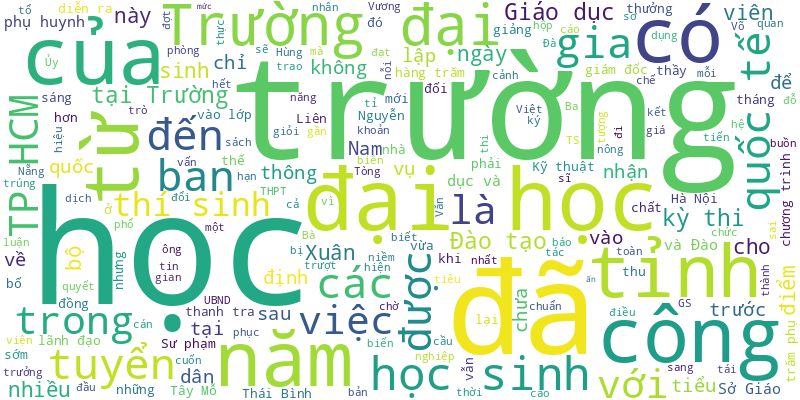
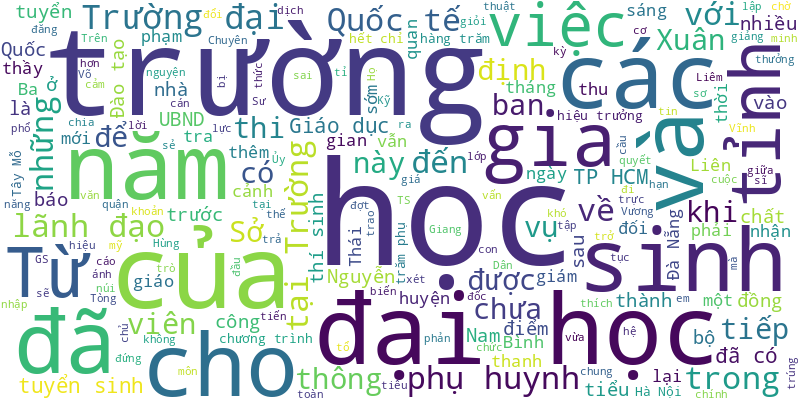
🍀 = 100%

diff --git a/README.md b/README.md
@@ -1,6 +1,14 @@
 # Tuoi Tre RSS 
 
 ## Giáo dục 
+- Trên mạng xã hội tiếp tục xôn xao khi một phụ huynh tại Thái Bình đăng điểm thi lớp 10 của con sau thanh tra tiếp tục 'nhảy múa', cách nhau 5 điểm môn toán.
+- Trong năm học mới này, những ngôi trường "đẹp như mơ" trở thành điểm nhấn cảnh quan của thành phố Đà Nẵng, đồng thời kích thích thẩm mỹ, khiếu sáng tạo và cảm hứng học tập cho học sinh.
+- Lãnh đạo UBND huyện Vĩnh Thuận, tỉnh Kiên Giang khẳng định hiệu trưởng đã tự ý chuyển cơ sở vật chất trường cũ sang trường mới khi chưa có văn bản chính thức của huyện là có.
+- Sau lùm xùm 'trường chưa thông báo tuyển sinh đã hết chỉ tiêu', lãnh đạo UBND quận Nam Từ Liêm trực tiếp đối thoại với phụ huynh.
+- Trong cuộc thi ROBOTACON WRO 2024 với chủ đề “Đồng minh Trái đất”, bên cạnh các nhiệm vụ chính thức, còn có thêm những thử thách bất ngờ, giúp các em hiểu hơn về phát triển bền vững.
+- Chuyên gia cảnh báo việc thí sinh đang 'đứng núi này trông núi nọ', tính đến việc bỏ nhập học sau khi trúng tuyển để xét tuyển lại sẽ gặp nhiều rủi ro.
+- Hơn năm năm qua, ba nhà giáo ở Quảng Ngãi may áo dài cho sinh nghèo. Họ chung tấm lòng thiện nguyện thảo thơm, sẻ chia khó nhọc, tiếp thêm động lực cho những phận đời vươn lên giữa gian khó.
+- Lãnh đạo Sở Giáo dục và Đào tạo Đà Nẵng cho biết đã có kết luận trả lời phản ánh của các giáo viên Trường THPT Thái Phiên về dấu hiệu sai phạm của Hiệu trưởng Nguyễn Bá Hảo.
 - TP.HCM đã ấn định mức trần các khoản thu dịch vụ trong trường công lập tại TP.HCM năm học 2024-2025.
 - Nhiều phụ huynh, thí sinh phản ánh Trường đại học Quốc tế (Đại học Quốc gia TP.HCM) buộc thí sinh phải nộp hồ sơ nhập học trực tiếp và hoàn thành các khoản thu trước 16h ngày 24-8.
 - Liên quan đến vụ việc tuyển sinh sai đối tượng tại Trường phổ thông Dân tộc nội trú THCS Mường Lát, Ủy ban Kiểm tra Tỉnh ủy Thanh Hóa vừa công bố quyết định kỷ luật một loạt cán bộ, lãnh đạo huyện này.
@@ -23,46 +31,38 @@
 - UBND tỉnh Thái Bình quyết định gia hạn tạm đình chỉ công tác thêm 15 ngày đối với ông Nguyễn Viết Hiển, giám đốc Sở Giáo dục và Đào tạo tỉnh, để phục vụ công tác thanh tra việc tổ chức kỳ thi vào lớp 10.
 - Nói về việc thí sinh đạt 9 điểm mỗi môn vẫn rớt nguyện vọng 1 vào trường, ông Nguyễn Đức Sơn - hiệu trưởng Trường đại học Sư phạm Hà Nội - cho rằng đó là điều bình thường.
 - GS.TS Võ Tòng Xuân, "cây đại thụ" của nền nông nghiệp Việt Nam, chuyên gia uyên bác trong mắt bạn bè quốc tế, thầy Xuân của nhiều thế hệ học trò, anh Ba Xuân của bà con nông dân miền Tây, vĩnh viễn trở về nằm lại ở quê nhà Ba Chúc, Tri Tôn, An Giang.
-- Kỳ thi vào lớp 10 THPT công lập tỉnh Thái Bình diễn ra từ ngày 6 đến 8-6, thế nhưng sau hơn 70 ngày trong tâm trạng hồi hộp, lo lắng, có cả buồn tủi, đến sáng 20-8 nhiều thí sinh mới chính thức biết điểm thi thật của mình.
-- Nhiều giảng viên Trường ĐH Sư phạm kỹ thuật Đà Nẵng 'té ngửa' vì sau hơn 5 năm sử dụng mới biết cuốn sách chưa hề được xuất bản.
-- Niềm vui của học sinh này lại là nỗi buồn của học sinh khác, đó là thực tế đang diễn ra tại Thái Bình khi sau kết luận thanh tra kỳ thi vào lớp 10 tại tỉnh này, có hơn 500 thí sinh từ trượt sang đỗ, từ đỗ sang trượt.
-- Văn phòng Sở Giáo dục và Đào tạo TP.HCM vừa công bố kết luận của phó giám đốc Sở Giáo dục và Đào tạo tại buổi làm việc với Trường quốc tế AISVN.
-- Chiều 20-8, Cục Đào tạo, Bộ Công an công bố điểm chuẩn trúng tuyển vào các học viện, trường đại học Công an nhân dân năm 2024.
-- Mỗi học sinh Nghệ An đạt điểm cao trong kỳ thi tốt nghiệp THPT năm 2024 sẽ được nhận thưởng gần 19 triệu đồng.
-- Điểm chuẩn Học viện Cảnh sát nhân dân với thí sinh nam dao động 20,67 - 21,52, cao nhất là đối tượng vùng 1 mã bài CA2.
-- Qua thanh tra cho thấy ban thư ký đã phát hiện sai sót nhưng không lập biên bản, trưởng ban chỉ đạo kỳ thi cũng không có biện pháp khắc phục.
 ![Edu](Edu.png)
 ## Thời Sự 
-- Bộ Công an đang đẩy mạnh ứng dụng tài khoản định danh điện tử của công dân để hạn chế tình trạng nặc danh, lừa đảo trên mạng.
-- Trong "tâm thư" gửi đến Thủ tướng, Mercedes-Benz Group AG lo lắng về thời hạn 31-8 chưa được gia hạn dự án thì doanh nghiệp sẽ phải đóng vĩnh viễn nhà máy  tại Gò Vấp.
-- Sở Giao thông vận tải TP.HCM vừa chỉ đạo các đơn vị trực thuộc rà soát các điểm xe dù bến cóc ở quận 10 để đề xuất gắn camera giám sát.
-- Một số tin tức đáng chú ý: Nhiều người sẽ được hưởng trợ cấp bảo hiểm xã hội từ 2025; Rao bán món nợ trăm tỉ của ông chủ chuỗi nhà hàng nổi tiếng ở TP.HCM; TP.HCM xây dựng đề án ứng phó với sự cố hóa chất...
-- Hôm nay 23-8, thời tiết Bắc Bộ duy trì mưa to, còn Nam Bộ mưa có xu hướng gia tăng vào chiều tối, Trung Bộ vẫn nắng nóng.
-- Đi bệnh viện, ngoài chi phí "cứng" tiền khám và xét nghiệm, hầu hết người bệnh còn phải trả một khoản tiền lớn cho việc mua thuốc, sản phẩm hỗ trợ, thực phẩm chức năng. Nhiều toa thuốc bất hợp lý, quá nhiều món "hỗ trợ".
-- Mưa lớn trên địa bàn tỉnh Thái Nguyên khiến nước dâng cao, chảy xiết cuốn trôi ô tô, tạt đổ nhiều xe máy trên đường phố ở TP Thái Nguyên.
-- Cơ quan công an đã vào cuộc vụ một bệnh nhân tử vong sau khi phẫu thuật thay van tim tại Bệnh viện Đại học Y dược Buôn Ma Thuột.
-- Ngày mai (23-8), đoàn công tác của Bộ Tài nguyên và Môi trường sẽ làm việc tại UBND huyện Thanh Oai và Hoài Đức để nghe báo cáo toàn bộ các cuộc đấu giá đất vừa diễn ra.
-- Lực lượng chức năng đã phát hiện tàu vỏ thép chở hàng mang số hiệu Việt Thuận 21506 tại một bến cảng trên địa bàn tỉnh Bình Thuận. Đây là tàu hàng va chạm với tàu cá Phú Yên khiến ngư dân livestream kêu cứu trưa nay.
-- Thủ tướng Chính phủ Phạm Minh Chính đã ký các quyết định bổ nhiệm một số cán bộ thuộc Bộ Quốc phòng, trong đó bổ nhiệm chính ủy Học viện Chính trị làm phó chủ nhiệm Tổng cục Chính trị.
-- Từ kinh nghiệm xử lý các dự án thua lỗ vừa qua, bài học rút ra là cần tái cấu trúc quản trị, nguồn vốn vay, tài chính và đầu vào nguyên liệu, gắn với cơ chế thực hiện.
-- Tam giác phát triển Campuchia - Lào - Việt Nam thu hút sự chú ý gần đây tại Campuchia. Ngày 22-8, Bộ Ngoại giao Việt Nam chính thức nói về ý nghĩa của khuôn khổ hợp tác này.
-- Tỉnh ủy Lâm Đồng đã điều chỉnh chủ trương với hai dự án cao tốc nối liền TP.HCM tới Đà Lạt. Vốn ngân sách sẽ được sử dụng nhiều hơn để đẩy nhanh tiến độ dự án.
-- Nhóm này vừa bị Công an huyện Như Xuân (tỉnh Thanh Hóa) bắt tạm giam để điều tra.
-- Vào đúng giờ tan tầm, người đi trên quốc lộ 13 tỉnh Bình Dương thấy trời mưa khói vẫn “ngút trời” do cháy bãi phế liệu xen giữa khu dân cư. Đám cháy sau đó được khống chế.
-- Sở Giao thông vận tải TP.HCM vừa thông báo cấm toàn bộ xe cộ đi trên đường Nguyễn Huệ (quận 1) vào ngày 23-8.
-- Bộ Ngoại giao Việt Nam bác bỏ thông tin sai sự thật rằng công dân Anh có thể bị cấm xuất cảnh, thu hộ chiếu trong một số trường hợp khi đến đây.
-- Bộ Giao thông vận tải ủng hộ phương án mở rộng cao tốc TP.HCM - Long Thành - Dầu Giây đoạn từ vành đai 2 đến cao tốc Biên Hòa - Vũng Tàu lên 8 đến 10 làn xe.
-- Ủy ban Kiểm tra Tỉnh ủy Kiên Giang vừa đề nghị Ban Thường vụ Tỉnh ủy Kiên Giang thi hành kỷ luật khai trừ Đảng ông Trần Văn Việt.
-- Bộ Ngoại giao Việt Nam lấy làm tiếc về phán quyết trong vụ việc của bà Trần Tố Nga, nhấn mạnh ủng hộ các nạn nhân yêu cầu các công ty sản xuất chất da cam chịu trách nhiệm.
-- Hàng loạt sản phẩm công nghệ từ xe điện, hệ thống sạc pin, mũ bảo hiểm tích hợp tai nghe bluetooth, AI ứng dụng trong tài chính, logistics... trưng bày tại InnoEx 2024 thu hút giới khởi nghiệp.
-- Nội dung về thí điểm chuyển đổi xe máy điện ở Cần Giờ được nêu tại hội thảo chính sách và giải pháp về giao thông vận tải cho phát triển kinh tế xanh tại TP.HCM, chiều 22-8.
-- Dự án cải tạo tỉnh lộ 7 ở tỉnh Đắk Lắk chi 70 tỉ đồng nhưng bị sạt trượt nghiêm trọng, do chủ đầu tư mắc lỗi từ việc khảo sát, xây dựng. Giờ đây Nhà nước phải chi thêm 11 tỉ đồng để sửa chữa.
-- Đại diện công đoàn đề xuất giá nhà cho công nhân có thể tiếp cận không quá 600 triệu đồng/căn.
-- Ngày 22-8 (tính đến 15h10) tại khu vực huyện Kon Plông (tỉnh Kon Tum) xảy ra 9 trận động đất, trong đó có trận động đất mạnh 4,4 độ Richter.
-- 100% thành viên Ủy ban Thường vụ Quốc hội có mặt đã biểu quyết đồng ý bổ sung dự Luật Bảo hiểm y tế sửa đổi vào chương trình xây dựng luật, pháp lệnh năm 2024.
-- Sáng 22-8 giờ Paris (chiều cùng ngày theo giờ Việt Nam), Tòa phúc thẩm Paris đã ra phán quyết về vụ kiện của bà Trần Tố Nga.
-- Theo chỉ đạo của Tá (không rõ lai lịch), Vũ Văn Nam thuê 2 căn chung cư cất giấu hơn 21kg ma túy để phân chia, bán cho khách.
-- Chiều 22-8, đoàn xe đưa linh cữu giáo sư Võ Tòng Xuân đã về đến quê nhà tại khóm An Hòa A, thị trấn Ba Chúc, huyện Tri Tôn, tỉnh An Giang. Cùng di chuyển theo đoàn xe là các cơ quan, ban ngành ở khu vực ĐBSCL đưa tiễn giáo sư.
+- Báo cáo phát triển bền vững - ESG - hiện được ví như vé thông hành vào thị trường châu Âu. Vậy làm thế nào để sở hữu được ESG?
+- Gió mùa tây nam mạnh lên khiến thời tiết Nam Bộ mưa tăng, Bắc Bộ vẫn trong đợt mưa diện rộng, Trung Bộ ngày nắng nóng.
+- Một số tin tức đáng chú ý: Tỉ giá tự do 'rơi' sâu; Mỗi năm bù lỗ 11 tỉ cho bến phà tạm Rạch Miễu; 3 triệu trẻ 5-15 tuổi ở Việt Nam mắc tật khúc xạ...
+- Tối 23-8, thông tin từ đội tìm kiếm cứu hộ cứu nạn tại khu vực sụp lở cống đang thi công đoạn bờ kè gầm cầu Trần Hoàng Na (quận Ninh Kiều, TP Cần Thơ), đã tìm thấy thi thể công nhân bị vùi lấp dưới hố.
+- Tối 23-8, vùng mây đối lưu phát triển, gây mưa to ở các quận huyện phía tây Hà Nội và đang mở rộng vào trung tâm.
+- Nhấn mạnh hai chữ 'đồng bào', Tổng Bí thư, Chủ tịch nước Tô Lâm nói như trên, thể hiện mong muốn bà con dù ở đâu hay làm gì, vẫn luôn hướng về quê hương và đất nước bằng trái tim ấm nồng tình yêu.
+- Chiều 23-8, Ủy viên Bộ Chính trị, Thủ tướng Chính phủ Phạm Minh Chính, trưởng Tiểu ban Kinh tế - xã hội Đại hội toàn quốc lần thứ XIV của Đảng, chủ trì phiên họp thứ ba của tiểu ban.
+- Lời giới thiệu hóm hỉnh của cụ Nguyễn Tầm Thường - cựu chiến binh Đại đoàn Quân tiên phong tham gia giải phóng thủ đô vào 70 năm trước - khiến nhiều người không khỏi xúc động.
+- Một sự cố sụp lở trong lúc thi công cống trên tuyến đường bờ kè cầu Trần Hoàng Na (quận Ninh Kiều, TP Cần Thơ) khiến hai công nhân bị rơi xuống hố.
+- Phó thủ tướng Trần Hồng Hà ký quyết định số 876 ngày 21-8 của Thủ tướng Chính phủ thi hành kỷ luật đối với ông Nguyễn Hoàng Hải, phó giám đốc Đại học Quốc gia Hà Nội.
+- Từ cuối tháng 7 đến nay, hơn 3km bờ biển ở huyện Hoằng Hóa, tỉnh Thanh Hóa đã và đang bị nước biển xâm thực, sạt lở nghiêm trọng, ảnh hưởng lớn đến cuộc sống, sản xuất của người dân.
+- Tổ công tác tham mưu cho UBND TP.HCM về phương án chấm dứt thỏa thuận đầu tư dự án nhà thi đấu Phan Đình Phùng và hoàn trả hơn 171 tỉ đồng theo tính toán của nhà đầu tư.
+- Phó thủ tướng Trần Lưu Quang ký quyết định số 890 của Thủ tướng, thi hành kỷ luật đối với ông Trần Văn Cần, nguyên chủ tịch UBND tỉnh Long An.
+- Mới đây, cơ quan chức năng tỉnh Tây Ninh đã phá án, bắt giữ hai đối tượng buôn bán người xuyên quốc gia từ Việt Nam sang Campuchia và giải cứu thành công một nạn nhân 16 tuổi.
+- GS Nguyễn Văn Minh mong muốn Tuổi Trẻ sẽ tiếp tục phát triển và là nơi phát hiện cái mới, cái đúng, đồng thời phải kiên định bảo vệ cái mới, cái đúng.
+- Việc tạm ngừng thu hồi giấy chứng nhận đăng kiểm viên bị kết tội bằng bản án được xem là giải pháp nhằm ngăn ngừa ùn tắc tại các trung tâm đăng kiểm trong thời gian tới.
+- Ngày 23-8, Phó thủ tướng Trần Hồng Hà chủ trì phiên họp thứ 3 của Ban Chỉ đạo nhà nước các chương trình, công trình, dự án quan trọng quốc gia, trọng điểm ngành năng lượng.
+- Tỉnh Đồng Nai cho rằng cần tăng cường thực thi pháp luật trong phòng chống tội phạm mua bán, săn bắt động vật hoang dã trái phép.
+- 'Khi TP.HCM đưa vào vận hành trung tâm hành chính công cấp tỉnh vào năm 2025, các sở trực thuộc sẽ không còn bộ phận tiếp nhận hồ sơ hành chính như hiện nay'.
+- Kỳ họp bất thường lần thứ 8 của Quốc hội sẽ diễn ra trong một ngày (26-8), để xem xét công tác nhân sự thuộc thẩm quyền.
+- Tìm kiếm, tôn vinh các sản phẩm mới xuất sắc về AI, Bigdata, IoT, bán dẫn sẽ là một điểm mới của Giải thưởng "Sản phẩm công nghệ số Make in Viet Nam" 2024.
+- Sở Kế hoạch và Đầu tư TP.HCM vừa có báo cáo UBND TP kết quả giải ngân vốn đầu tư công 7 tháng đầu năm và giải pháp trọng tâm thực hiện mục tiêu giải ngân quý 3-2024.
+- Chương trình 'Hành động vì một Việt Nam xanh' đã triển khai trồng 120.000 cây xanh tại Cà Mau để chống sạt lở đất, bảo vệ môi trường.
+- Dù 3 lần bị xử phạt hành chính do xây dựng sai phép và bị buộc phải tháo dỡ, 'biệt phủ' rộng cả ngàn mét vuông ở Bình Phước vẫn tồn tại sau gần 1 năm.
+- Tổ hợp hình thế vùng xoáy thấp phát triển từ mặt đất lên cao kết hợp với gió Đông Nam gây mưa lớn ở Hà Nội, Thái Nguyên và các tỉnh miền Bắc.
+- Trong chuỗi hoạt động thuộc chương trình “Những ngày Hà Nội tại TP.HCM”, đoàn đại biểu TP.HCM, TP Hà Nội đã dâng hương, dâng hoa tưởng niệm Chủ tịch Hồ Chí Minh và Chủ tịch Tôn Đức Thắng.
+- 8 tháng đầu năm, tội phạm ma túy tại Quảng Ngãi tăng hơn 33% so với cùng kỳ năm 2023. Trong 13 huyện, thị xã, thành phố, chỉ duy nhất huyện Minh Long không phát hiện tội phạm ma túy.
+- Ngày 23-8, Công an thành phố Bảo Lộc (Lâm Đồng) cho biết đơn vị vừa phối hợp với cơ quan chức năng xác minh và trả lại 3 tỉ đồng cho bà Lê Thị Kim Hoàng (36 tuổi, ngụ Đồng Tháp), do chuyển khoản ngân hàng nhầm.
+- Đội lái tàu người Việt Nam chính thức được thực hành thực tế trên các đoàn tàu và thiết bị tại tàu metro số 1 sau quá trình đào tạo lý thuyết và mô phỏng tại Việt Nam và Nhật Bản.
+- Chủ tịch UBND TP Cà Mau đã ký quyết định cưỡng chế, buộc thực hiện biện pháp khắc phục hậu quả đối với chủ biệt thự 'đẹp nhất Cà Mau'.
 ![New](News.png)
 ## Nhịp sống số 
 - Với xu hướng kinh doanh hiện đại là tập trung nhiều hơn vào khách hàng, việc mang đến nhiều trải nghiệm cá nhân hóa để kết nối sâu sắc hơn với khách hàng là rất quan trọng.
